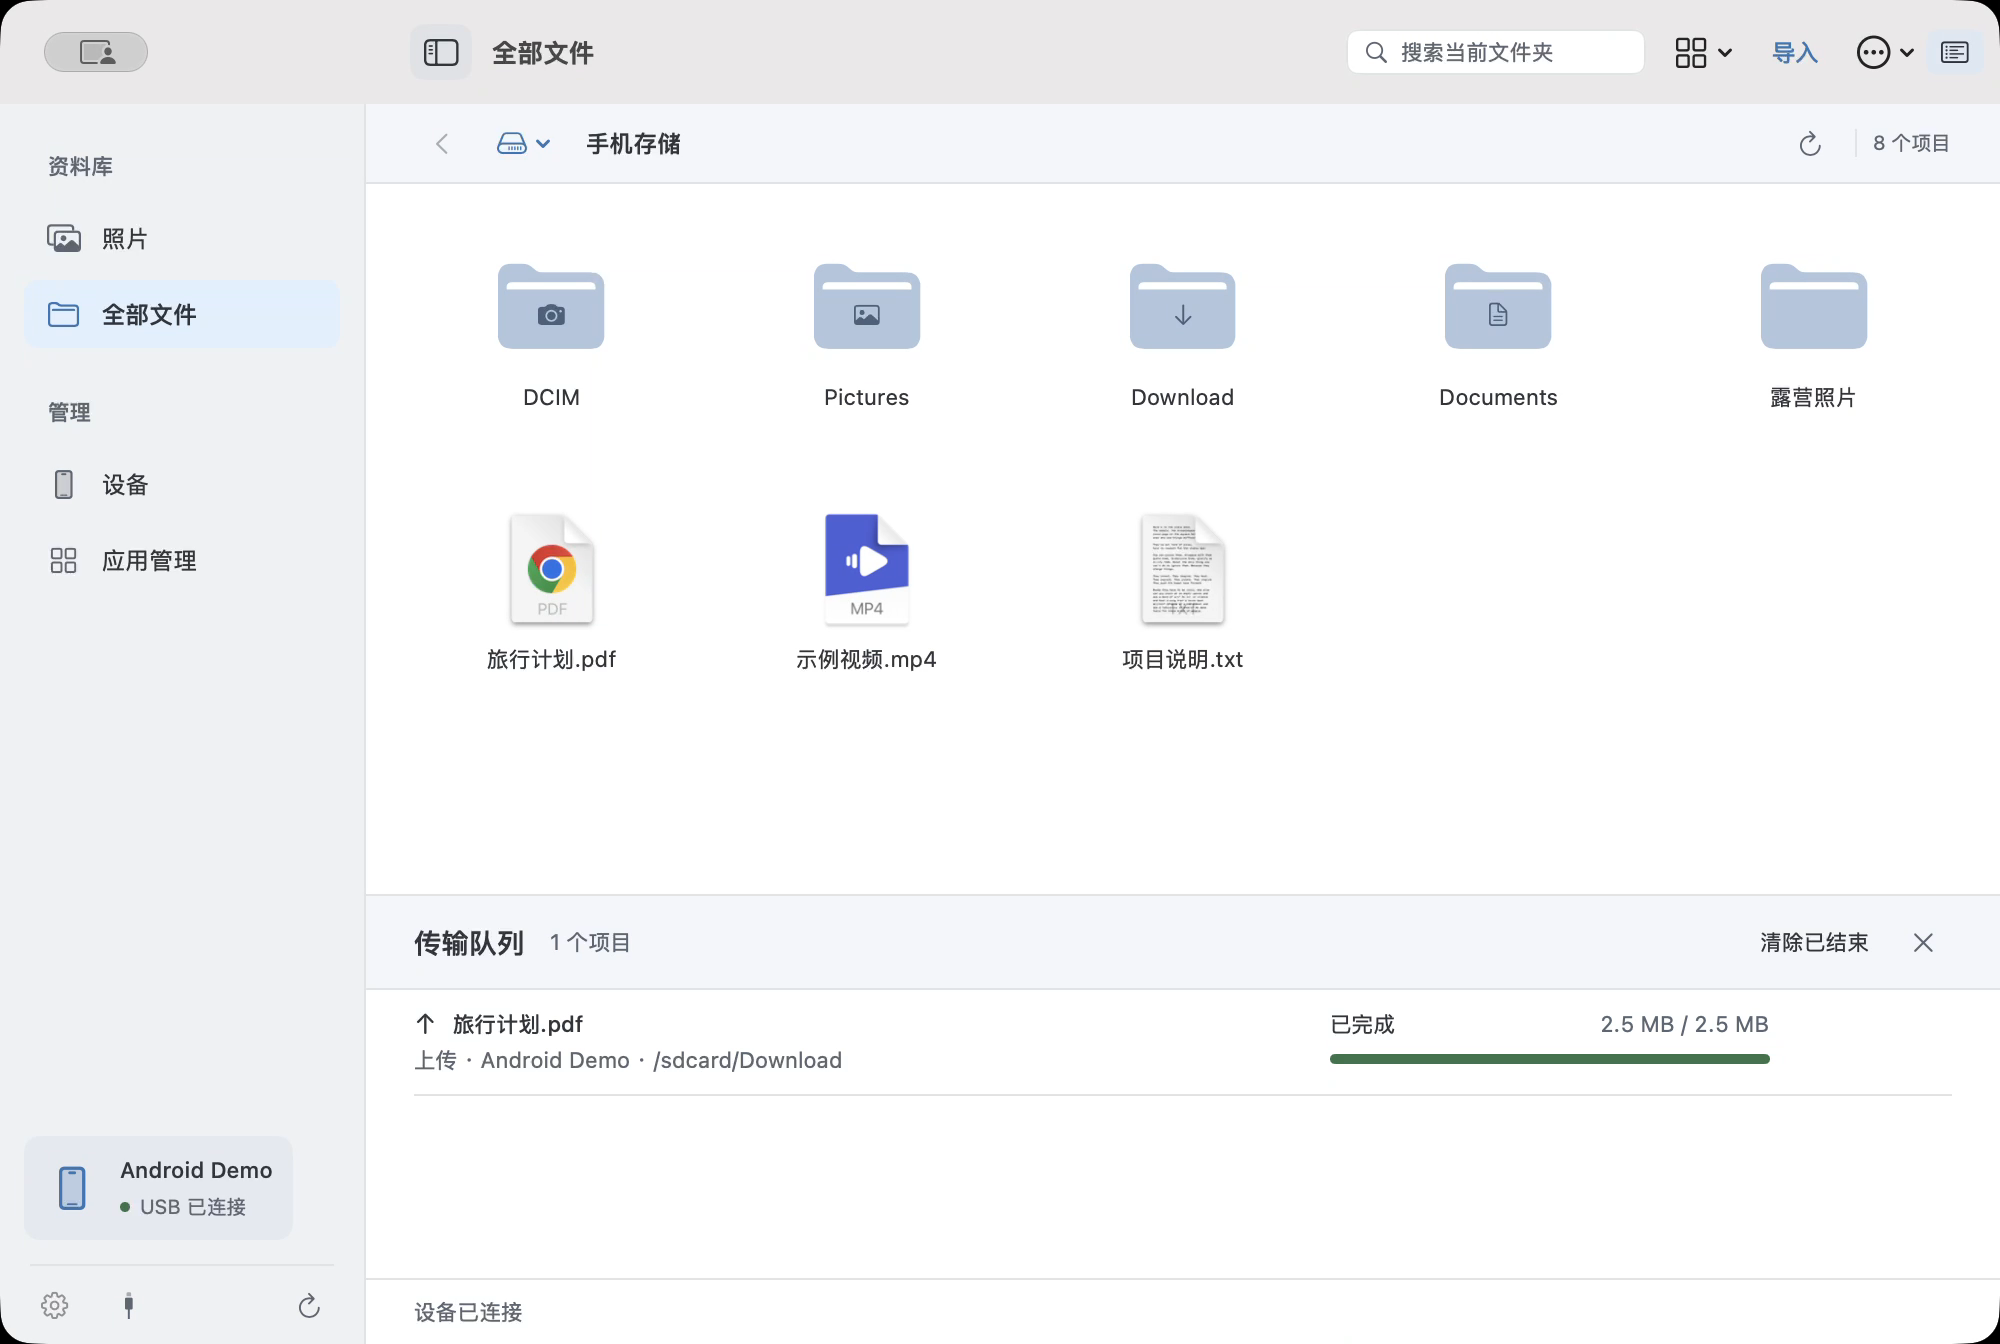
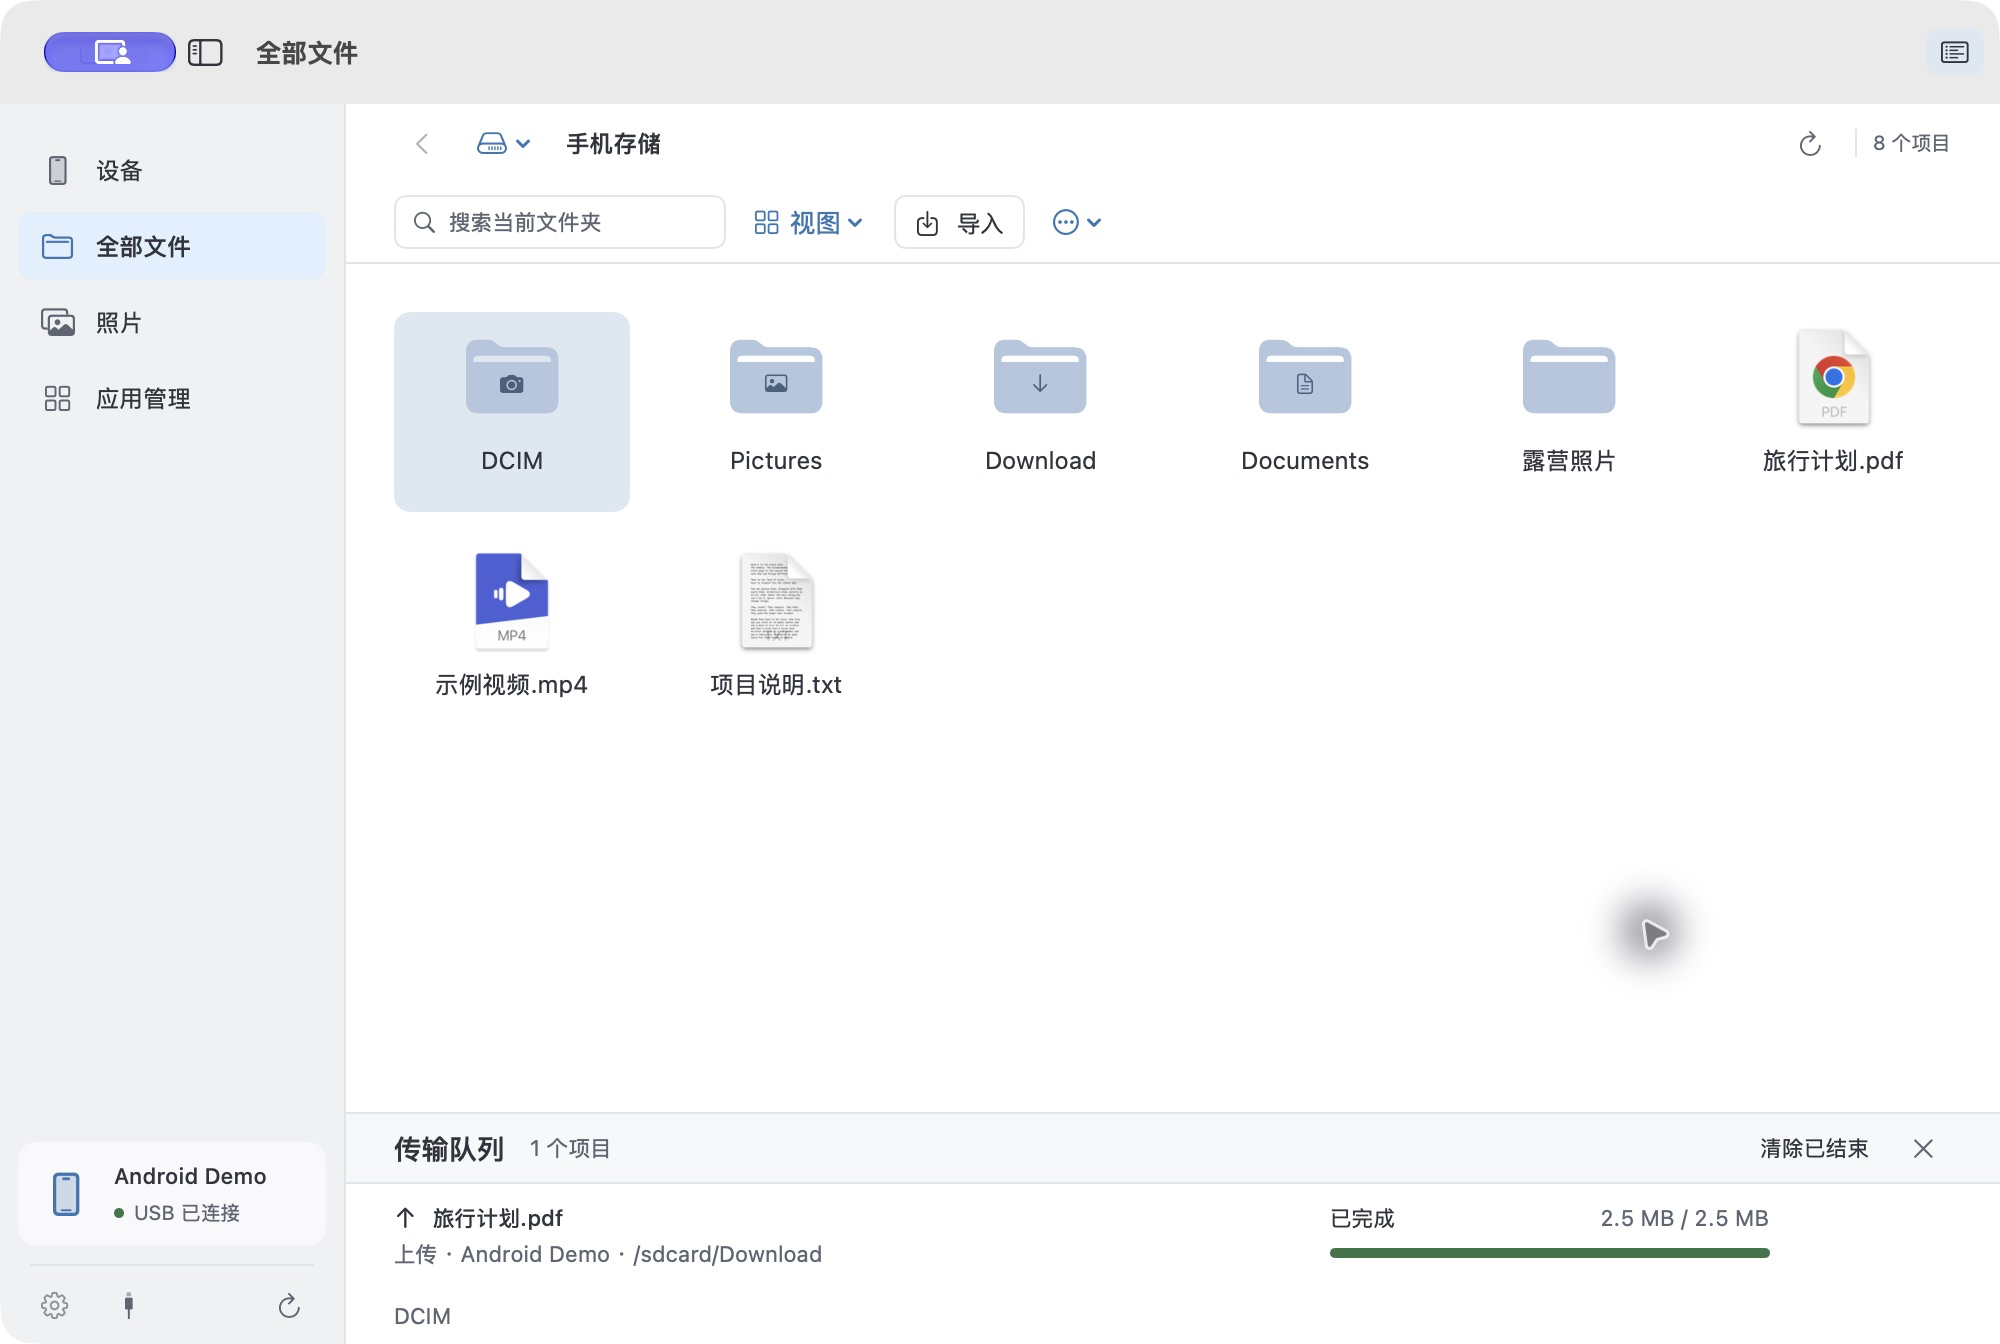
Refresh README screenshots for DroidHub 0.3.115

diff --git a/README.md b/README.md
@@ -32,6 +32,8 @@
 - 「应用管理」支持按应用名称或包名搜索，查看版本、大小，安装、启动、卸载和导出安装包。拆分应用导出为包含各 APK 的 ZIP，应用数据不包含在内。
 - 在「设置」选择浅色、深色或跟随系统，即时切换简体中文和 English，并可设置关闭主窗口时直接退出、隐藏窗口或每次询问。
 
+![DroidHub 浅色模式下的设备页，演示设备正在录屏，停止录屏按钮旁显示计时](assets/screenshots/device-recording.png)
+
 ## 目录
 
 ```text
